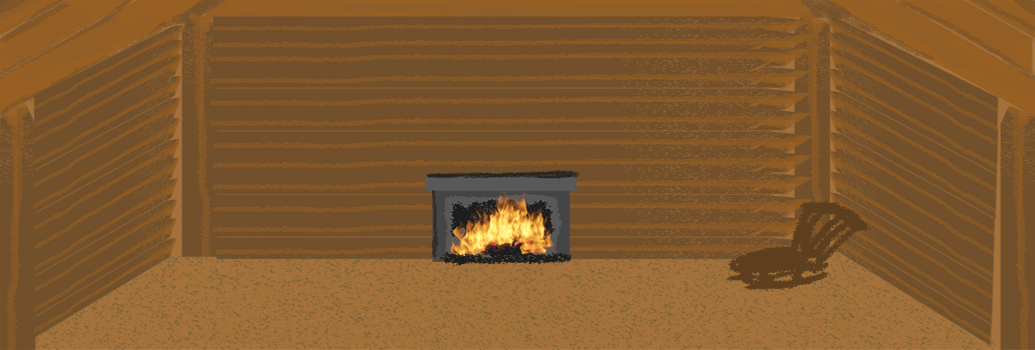
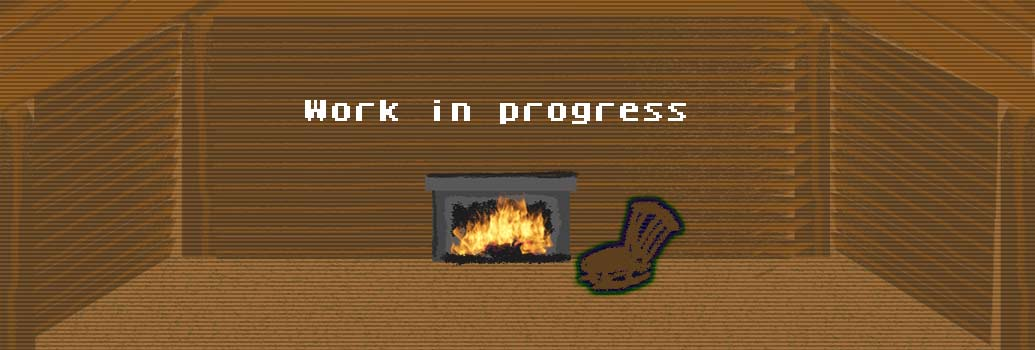
Updated reset command Added work in progress to swamp hut interior updated help

diff --git a/src/main/resources/static/js/main.js b/src/main/resources/static/js/main.js
@@ -11,7 +11,7 @@ $(document).ready(function () {
 
     //Splash screen
     //Automatically hide the splash screen after 4.5 seconds.
-    setTimeout(function() {
+    setTimeout(function () {
         closeSplashScreen();
     }, 4500);
     $("body").on("click", function () {
@@ -68,6 +68,9 @@ function startGame() {
 
             //Set the scene assets, with the position absolute style not being set on the last item.
             setSceneAssets(data);
+
+            //reset history
+            $('#history').empty();
         },
         error: function (error) {
             $('#feedback').html(error.responseText);
@@ -117,6 +120,10 @@ function postAction() {
                 //Update command history
                 $('#history').prepend('<li class="list-group-item">' + data.command + '</li>');
                 $('#command').hide().fadeIn();
+
+                if (data.response === 'reset') {
+                    startGame();
+                }
             },
             error: function (error) {
                 clearAction();
@@ -127,15 +134,18 @@ function postAction() {
 }
 
 function setSceneAssets(data) {
-    let assets = '';
-    data.assets.forEach((asset, key, arr) => {
-        if (Object.is(arr.length - 1, key)) {
-            assets += '<img src="' + asset + '" class="img-fluid"/>'
-        } else {
-            assets += '<img src="' + asset + '" class="img-fluid scene-asset"/>';
-        }
-    });
-    $('#assets').html(assets);
+    if (data.assets) {
+
+        let assets = '';
+        data.assets.forEach((asset, key, arr) => {
+            if (Object.is(arr.length - 1, key)) {
+                assets += '<img src="' + asset + '" class="img-fluid"/>'
+            } else {
+                assets += '<img src="' + asset + '" class="img-fluid scene-asset"/>';
+            }
+        });
+        $('#assets').html(assets);
+    }
 }
 
 function clearAction() {

diff --git a/src/main/resources/templates/help.html b/src/main/resources/templates/help.html
@@ -90,7 +90,7 @@
 
                     <hr class="my-4">
                     <p class="h6 help-title">General</p>
-                    To reset the game use the command <kbd>reset</kbd>
+                    To reset the game, use the command <kbd>reset</kbd>
                 </div>
             </div>
         </div>

diff --git a/src/main/java/com/medcalfbell/superadventure/services/GameService.java b/src/main/java/com/medcalfbell/superadventure/services/GameService.java
@@ -101,6 +101,12 @@ public class GameService {
 
     public CommandResponse processCommand(String command) {
 
+        if (isReset(command)) {
+            reset();
+            return new CommandResponse()
+                    .setCommand(command)
+                    .setResponse("reset");
+        }
         if (isHelp(command)) {
             return getHelp(command);
         }
@@ -116,10 +122,6 @@ public class GameService {
         if (isItems(command)) {
             return getItems(command);
         }
-        if(isReset(command)){
-            reset();
-        }
-        //TODO: List available items at a location
 
         //Process action / target
         return processAction(command);
@@ -148,6 +150,7 @@ public class GameService {
     private boolean isReset(String command) {
         return command.toLowerCase().contains("reset");
     }
+
     /* Returns true if command contains 'items' keyword.
      */
     private boolean isItems(String command) {
